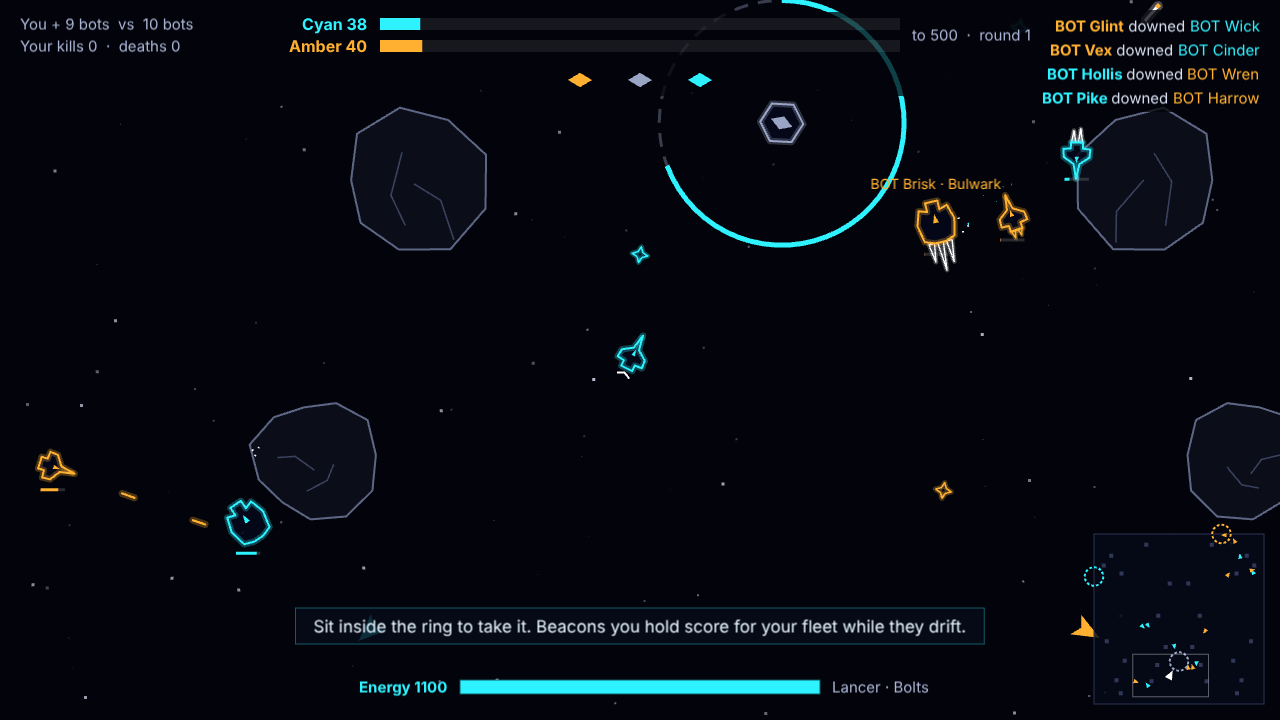
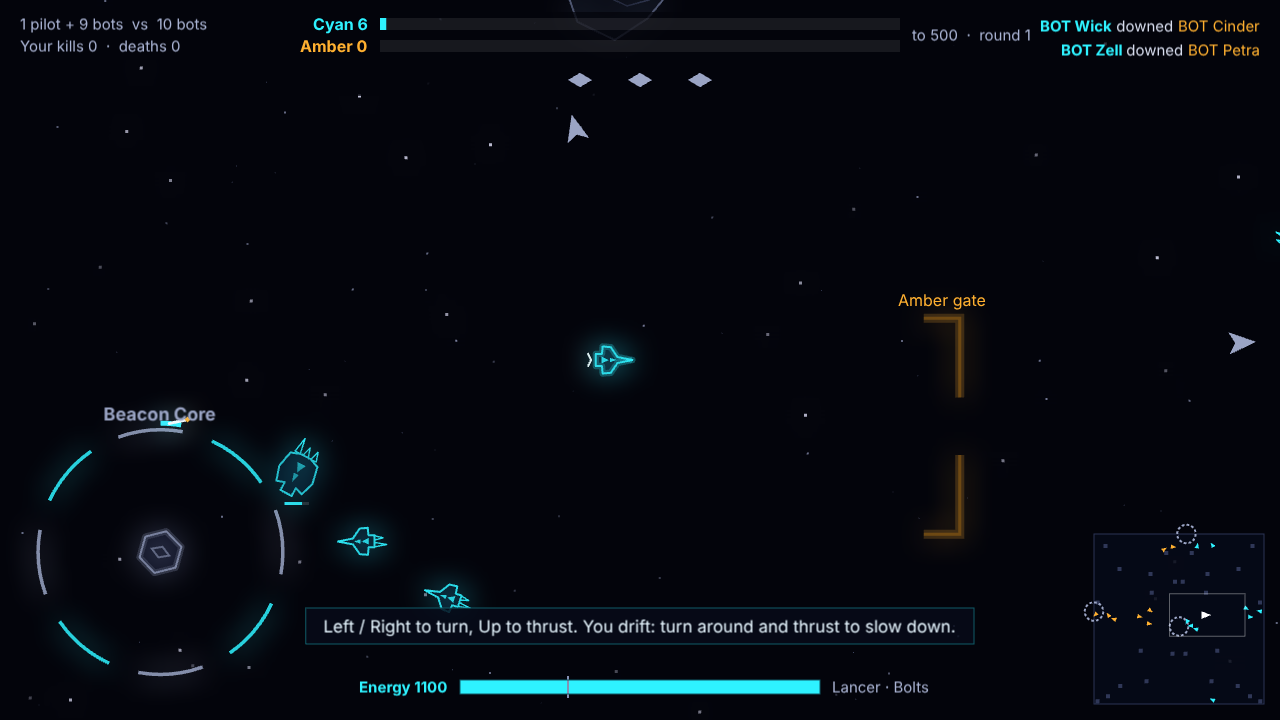
feat: art bible visuals in the game
Team pips, segmented beacons with team glyphs and wash, one bloom pass,
low-energy warnings (dashed hull, hatched bar, tick, glyph, beep) and a
Reduce flashing setting. Scripted test steps now draw once per batch.
Ref: design/art/art-bible.md, production/decision-log.md #12-16

Claude-Session: https://claude.ai/code/session_016dZc32NmVJ1ih6XbMumnJq

diff --git a/src/main.ts b/src/main.ts
@@ -2,7 +2,7 @@
 // (pure, deterministic, server-ready); the look is in render/art.ts; what the checks drive is
 // in hook.ts. Implements design/game-brief.md.
 
-import { Application, Container, Graphics, Text, type TextStyleFontWeight } from 'pixi.js';
+import { Application, BlurFilter, Container, Graphics, RenderTexture, Sprite, Text, type TextStyleFontWeight } from 'pixi.js';
 import config from '../data/config.json';
 import { Sound } from './audio';
 import { readPad, type PadState } from './gamepad';
@@ -15,7 +15,7 @@ import { HULL_RADIUS, HULLS, WEAPONS, type GameEvent, type Ship, type ShipInput,
 import { gate, newWorld } from './game/world';
 import { clock, install, manual, params, seedFrom } from './hook';
 import {
-  arrow, blip, dashedRing, diamond, drawAsteroid, drawBeacon, drawMine, drawShip, drawShot,
+  arrow, blip, dashedRing, look, diamond, drawAsteroid, drawBeacon, drawMine, drawShip, drawShot,
   HULL_NAME, HULL_ROLE, INK, ownerColor, ownerCss, TEAM, WEAPON_NAME, WEAPON_ROLE,
 } from './render/art';
 
@@ -108,7 +108,7 @@ function react(events: GameEvent[]): void {
     log.push(e);
     switch (e.type) {
       case 'shot': { const s = world.ships[e.ship]; if (e.ship === ME || near(s.x, s.y, 700)) (e.kind === 'bolt' ? sound.shoot() : sound.heavy()); break; }
-      case 'hit': if (e.ship === ME) { view.shake = Math.min(10, view.shake + e.amount / 40); sound.hit(); } break;
+      case 'hit': if (e.ship === ME) { if (!settings.calm) view.shake = Math.min(10, view.shake + e.amount / 40); sound.hit(); } break;
       case 'burst':
         for (let i = 0; i < e.n; i++) { // sparks are only for the eye, so they use Math.random
           const a = Math.random() * Math.PI * 2, s = e.speed * (0.3 + Math.random() * 0.7);
@@ -137,6 +137,7 @@ function react(events: GameEvent[]): void {
   }
 }
 
+let wasLow = false;
 function updatePlay(dt: number): void {
   const input = myInput();
   if (input.left || input.right) view.turned = true;
@@ -153,6 +154,9 @@ function updatePlay(dt: number): void {
   }
   // first-minute hints, taught by doing
   const p = me();
+  const isLow = p.alive && p.energy < tune[`${p.hull}_energy`] * tune.low_energy_warn;
+  if (isLow && !wasLow) sound.warn();
+  wasLow = isLow;
   view.hintT += dt;
   if (view.hint === 0 && view.thrustTime > 1.2 && view.turned) { view.hint = 1; view.hintT = 0; }
   if (view.hint === 1 && (world.beacons.some(b => dist(p, b, world.size) < 450) || view.hintT > 25)) { view.hint = 2; view.hintT = 0; }
@@ -184,10 +188,10 @@ function menuKeys(): { up: boolean; down: boolean; left: boolean; right: boolean
     ok: pressed('Enter') || pressed('Space') || edge('a') || edge('start'), back: pressed('Escape') || pressed('Backspace') || edge('b'),
   };
 }
-const SETTINGS_ROWS = ['Volume', 'Camera zoom', 'Bot skill', 'Fleet size (offline)', 'Call sign (online)', 'Zone address (online)', 'Back'] as const;
+const SETTINGS_ROWS = ['Volume', 'Camera zoom', 'Bot skill', 'Fleet size (offline)', 'Call sign (online)', 'Zone address (online)', 'Reduce flashing', 'Back'] as const;
 function settingText(i: number): string {
   const s = settings;
-  return [`${Math.round(s.volume * 100)}%`, `${s.zoom.toFixed(2)}x`, SKILL_NAMES[s.skill], `${s.fleet} a side`, s.name, s.server, ''][i];
+  return [`${Math.round(s.volume * 100)}%`, `${s.zoom.toFixed(2)}x`, SKILL_NAMES[s.skill], `${s.fleet} a side`, s.name, s.server, s.calm ? 'On' : 'Off', ''][i];
 }
 function changeSetting(i: number, d: number): void {
   const s = settings, c = config;
@@ -196,6 +200,7 @@ function changeSetting(i: number, d: number): void {
   if (i === 1) s.zoom = step2(s.zoom, c.zoom);
   if (i === 2) s.skill = Math.min(2, Math.max(0, s.skill + d)) as Settings['skill'];
   if (i === 3) s.fleet = step2(s.fleet, { ...c.fleet_size, min: 2, max: 20 });
+  if (i === 6) s.calm = !s.calm;
   save(s);
 }
 function editText(field: 'name' | 'server', max: number): void {
@@ -233,7 +238,8 @@ const scenes: Record<string, { update(dt: number): void }> = {
       if (k.down) setAt = (setAt + 1) % SETTINGS_ROWS.length;
       if (k.left) changeSetting(setAt, -1);
       if (k.right) changeSetting(setAt, 1);
-      if (k.ok && setAt === 4) editText('name', 16);
+      if (k.ok && setAt === 6) changeSetting(6, 1);
+      else if (k.ok && setAt === 4) editText('name', 16);
       else if (k.ok && setAt === 5) editText('server', 80);
       else if (k.back || (k.ok && setAt === SETTINGS_ROWS.length - 1)) scene = 'title';
     },
@@ -307,7 +313,13 @@ async function start(): Promise<void> {
   const app = new Application();
   await app.init({ canvas, width: W, height: H, background: '#03040b', resolution: Math.min(2, devicePixelRatio || 1), autoDensity: false, antialias: true, autoStart: false });
   const g = new Graphics(), hud = new Graphics(), top = new Graphics(), textLayer = new Container(), topText = new Container();
-  app.stage.addChild(g, hud, textLayer, top, topText);
+  // One bloom pass (art bible §8): the zone is drawn once into a texture, shown sharp, and shown
+  // again blurred at half resolution and added on top, so every lit line glows at one cost.
+  const lit = RenderTexture.create({ width: W, height: H, resolution: app.renderer.resolution, antialias: true });
+  const sharp = new Sprite(lit), bloom = new Sprite(lit);
+  bloom.filters = [new BlurFilter({ strength: 10, quality: 3, resolution: 0.5 })];
+  bloom.blendMode = 'add';
+  app.stage.addChild(sharp, bloom, hud, textLayer, top, topText);
   const L = new Labels(textLayer), T = new Labels(topText);
 
   const z = (): number => tune.zoom;
@@ -342,7 +354,7 @@ async function start(): Promise<void> {
     }
     for (const b of world.beacons) {
       const [X, Y] = toScreen(b.x, b.y);
-      if (!on(X, Y, 250)) continue;
+      if (!on(X, Y, tune.beacon_radius * s * 2.3)) continue;
       drawBeacon(g, b, X, Y, tune.beacon_radius * s, s, t);
       L.put(b.label, X, Y - tune.beacon_radius * s - 16, 18, ownerCss(b.owner), 'center', true);
     }
@@ -361,8 +373,8 @@ async function start(): Promise<void> {
       const [X, Y] = toScreen(sh.x, sh.y);
       if (!on(X, Y, 60)) continue;
       const r = HULL_RADIUS[sh.hull] * s * 1.25;
-      drawShip(g, sh.hull, sh.team, X, Y, sh.a, r, { thrust: sh.thrusting, burn: sh.burning, t, you: sh.id === ME, flash: sh.flash > 0 });
       const maxE = tune[`${sh.hull}_energy`];
+      drawShip(g, sh.hull, sh.team, X, Y, sh.a, r, { thrust: sh.thrusting, burn: sh.burning, t, you: sh.id === ME, flash: sh.flash > 0, low: sh.energy < maxE * tune.low_energy_warn });
       if (sh.id !== ME && sh.energy < maxE * 0.98) {
         const w = 34 * s;
         g.rect(X - w / 2, Y + r * 1.6, w, 3).fill({ color: 0xffffff, alpha: 0.15 });
@@ -407,12 +419,25 @@ async function start(): Promise<void> {
       L.put(f.a, x - wb - wm, y, 15, TEAM[f.at].css, 'right', true, al);
     });
     const ew = 360, ex = W / 2 - ew / 2, ey = H - 40; // energy: your shield and your ammo
-    const maxE = tune[`${p.hull}_energy`], ef = p.alive ? Math.max(0, p.energy / maxE) : 0, low = ef < 0.3;
+    const maxE = tune[`${p.hull}_energy`], ef = p.alive ? Math.max(0, p.energy / maxE) : 0, low = p.alive && ef < tune.low_energy_warn;
     hud.rect(ex, ey, ew, 14).fill({ color: 0xffffff, alpha: 0.08 });
-    hud.rect(ex, ey, ew * ef, 14).fill(low ? 0xff5a6a : TEAM[p.team].main);
+    if (low) { // low energy is never colour alone: a hatched fill, a threshold tick and a warning glyph
+      hud.rect(ex, ey, ew * ef, 14).fill({ color: 0xff5a6a, alpha: 0.35 });
+      for (let hx = ex - 14; hx < ex + ew * ef; hx += 7) {
+        const x0 = Math.max(ex, hx), x1 = Math.min(ex + ew * ef, hx + 14);
+        if (x1 > x0) hud.moveTo(x0, ey + 14 - (x0 - hx)).lineTo(x1, ey + 14 - (x1 - hx));
+      }
+      hud.stroke({ width: 2, color: 0xff5a6a });
+      const gx = ex + ew + 14, gy = ey - 4; // warning glyph: a triangle with a bar and a dot
+      hud.poly([gx, gy + 20, gx + 11, gy, gx + 22, gy + 20], true).stroke({ width: 2, color: 0xff5a6a, join: 'miter' });
+      hud.moveTo(gx + 11, gy + 7).lineTo(gx + 11, gy + 13).stroke({ width: 2, color: 0xff5a6a });
+      hud.rect(gx + 10, gy + 15, 2, 2).fill(0xff5a6a);
+    } else hud.rect(ex, ey, ew * ef, 14).fill(TEAM[p.team].main);
+    const tx = ex + ew * tune.low_energy_warn; // the threshold tick
+    hud.moveTo(tx, ey - 4).lineTo(tx, ey + 18).stroke({ width: 2, color: low ? 0xff5a6a : 0x8590b4 });
     hud.rect(ex, ey, ew, 14).stroke({ width: 1, color: TEAM[p.team].dim });
     L.put(`Energy ${Math.max(0, Math.round(p.energy))}`, ex - 12, ey + 7, 15, low ? '#ff5a6a' : TEAM[p.team].css, 'right', true);
-    L.put(`${HULL_NAME[p.hull]} · ${WEAPON_NAME[p.weapon]}`, ex + ew + 12, ey + 7, 15, '#aab4d4', 'left');
+    L.put(`${HULL_NAME[p.hull]} · ${WEAPON_NAME[p.weapon]}`, ex + ew + (low ? 46 : 12), ey + 7, 15, '#aab4d4', 'left');
     // the minimap: the whole zone
     const size = 170, mx = W - size - 16, my = H - size - 16, k = size / world.size;
     hud.rect(mx, my, size, size).fill({ color: 0x060a18, alpha: 0.82 }).stroke({ width: 1, color: 0x2a3354 });
@@ -505,10 +530,15 @@ async function start(): Promise<void> {
     });
     drawShip(g, 'lancer', 0, 760, 150, -Math.PI / 2, HULL_RADIUS.lancer * 2.2, { you: true, t });
     L.put('You (white chevron)', 760, 216, 15, '#ffffff');
-    drawBeacon(g, { owner: 0, progress: 1, phase: 0 }, 1050, 210, tune.beacon_radius * 0.55, 0.55, t);
-    L.put('Beacon (held)', 1050, 104, 15, TEAM[0].css, 'center', true);
-    drawBeacon(g, { owner: -1, progress: 0, phase: 1 }, 1050, 480, tune.beacon_radius * 0.55, 0.55, t);
-    L.put('Beacon (neutral)', 1050, 374, 15, '#9aa4c4', 'center', true);
+    drawShip(g, 'dart', 1, 760, 320, -Math.PI / 2, HULL_RADIUS.dart * 2.2, { t, low: true });
+    L.put('Low energy (dashed)', 760, 380, 15, TEAM[1].css);
+    const bs = 0.4, bR = tune.beacon_radius * bs;
+    drawBeacon(g, { owner: 0, progress: 1, phase: 0 }, 960, 180, bR, bs, t);
+    L.put('Beacon (held)', 960, 180 - bR - 22, 15, TEAM[0].css, 'center', true);
+    drawBeacon(g, { owner: 1, progress: -0.45, phase: 2 }, 1160, 180, bR, bs, t);
+    L.put('Beacon (being taken)', 1160, 180 - bR - 22, 15, TEAM[1].css, 'center', true);
+    drawBeacon(g, { owner: -1, progress: 0, phase: 1 }, 1060, 470, bR, bs, t);
+    L.put('Beacon (neutral)', 1060, 470 - bR - 22, 15, '#9aa4c4', 'center', true);
     const shape: [number, number][] = []; let s2 = 3;
     for (let i = 0; i < 11; i++) { s2 = (s2 * 16807) % 2147483647; shape.push([(i / 11) * Math.PI * 2, 0.8 + (s2 / 2147483647) * 0.3]); }
     drawAsteroid(g, { x: 0, y: 0, r: 60, shape, cracks: [[-0.2, -0.1, 0.18], [0.25, 0.2, 0.14]], spin: 0 }, 160, 490, 1);
@@ -525,7 +555,7 @@ async function start(): Promise<void> {
     drawStars(simT * 20, 0);
     L.put('Settings', W / 2, 90, 48, '#ffffff', 'center', true);
     SETTINGS_ROWS.forEach((r, i) => {
-      const y = 190 + i * 58, sel = i === setAt;
+      const y = 170 + i * 54, sel = i === setAt;
       if (sel) hud.rect(W / 2 - 380, y - 24, 760, 48).fill({ color: TEAM[0].main, alpha: 0.12 }).stroke({ width: 1, color: TEAM[0].main });
       L.put(r, W / 2 - 350, y, 22, sel ? '#ffffff' : '#aab4d4', 'left', sel);
       const v = settingText(i) + (typing && sel ? '_' : '');
@@ -581,6 +611,7 @@ async function start(): Promise<void> {
   }
 
   function draw(): void {
+    look.calm = settings.calm; bloom.alpha = settings.calm ? 0.45 : 0.9;
     g.clear(); hud.clear(); top.clear(); L.begin(); T.begin();
     if (scene === 'title') drawTitle();
     else if (scene === 'settings') drawSettings();
@@ -598,6 +629,7 @@ async function start(): Promise<void> {
       if (net && scene === 'play') L.put(`online  ·  ${net.ping} ms`, 20, 72, 14, '#8590b4', 'left');
     }
     L.end(); T.end();
+    app.renderer.render({ container: g, target: lit, clear: true });
   }
   function fit(): void {
     const k = Math.min(innerWidth / W, innerHeight / H);
@@ -606,17 +638,15 @@ async function start(): Promise<void> {
   }
 
   // ---- Loop: PixiJS's ticker, fixed step, frame time clamped --------------------------------
-  let acc = 0, lastFrame = clock.now(), stepping = false;
+  let acc = 0, lastFrame = clock.now();
   app.ticker.add(t => {
     lastFrame = clock.now();
-    if (manual) { if (stepping) step(); }
-    else {
+    if (!manual) {
       acc += Math.min(t.deltaMS / 1000, 0.25); // a stall never fast-forwards the game
       while (acc >= STEP) { step(); acc -= STEP; }
     }
     draw();
   });
-  let tickerTime = 0;
   install({
     get scene() { return scene; },
     get state() { return world; },
@@ -624,9 +654,10 @@ async function start(): Promise<void> {
     hold(code, on2) { if (on2) down.add(code); else down.delete(code); },
     get events() { return log; },
     step(n = 1) {
-      stepping = true;
-      try { for (let i = 0; i < n; i++) { tickerTime += STEP * 1000; app.ticker.update(tickerTime); } }
-      finally { stepping = false; }
+      // the steps run back to back and the screen is drawn once at the end: the bloom pass is the
+      // slow part of a frame on a software renderer, and a check only looks at the last one
+      for (let i = 0; i < n; i++) step();
+      draw(); app.render();
     },
   });
   addEventListener('resize', fit); fit();

diff --git a/src/render/art.ts b/src/render/art.ts
@@ -32,13 +32,38 @@ export function pts(shape: readonly [number, number][], x: number, y: number, a:
   for (const [px, py] of shape) out.push(x + (px * c - py * sn) * s, y + (px * sn + py * c) * s);
   return out;
 }
-/** A neon line: a wide soft pass, then the bright core. `path` draws the shape again for each pass. */
-export function glow(g: Graphics, path: () => void, color: number, width: number): void {
-  path(); g.stroke({ width: width * 3.2, color, alpha: 0.28, join: 'round', cap: 'round' });
+/** Look switches the page sets: `calm` is the Reduce flashing setting (no white flashes or blinking). */
+export const look = { calm: false };
+
+/** Team glyphs, the shape backup for cyan and amber (art bible §3, §4): cyan a triangle, amber a diamond. */
+export const TEAM_GLYPH: readonly (readonly [number, number][])[] = [
+  [[1, 0], [-0.75, 0.85], [-0.75, -0.85]],
+  [[1, 0], [0, 0.8], [-1, 0], [0, -0.8]],
+];
+
+/**
+ * A neon line: the bright core, plus a wide soft halo when `halo` is set. The screen-wide bloom pass
+ * lights every line, so only beacons and your own ship ask for their own halo (art bible §8).
+ */
+export function glow(g: Graphics, path: () => void, color: number, width: number, halo = false): void {
+  if (halo) { path(); g.stroke({ width: width * 3.2, color, alpha: 0.28, join: 'round', cap: 'round' }); }
   path(); g.stroke({ width, color, join: 'round', cap: 'round' });
 }
 
-export interface ShipLook { thrust?: boolean; burn?: boolean; t?: number; you?: boolean; flash?: boolean; alpha?: number }
+/** A closed outline drawn as dashes: what a hull looks like when its energy runs low. */
+export function dashedPoly(g: Graphics, p: number[], dash: number, gap: number, color: number, width: number, alpha = 1): void {
+  for (let i = 0; i < p.length; i += 2) {
+    const x0 = p[i], y0 = p[i + 1], x1 = p[(i + 2) % p.length], y1 = p[(i + 3) % p.length];
+    const len = Math.hypot(x1 - x0, y1 - y0), ux = (x1 - x0) / (len || 1), uy = (y1 - y0) / (len || 1);
+    for (let d = 0; d < len; d += dash + gap) {
+      const e = Math.min(len, d + dash);
+      g.moveTo(x0 + ux * d, y0 + uy * d).lineTo(x0 + ux * e, y0 + uy * e);
+    }
+  }
+  g.stroke({ width, color, alpha, cap: 'round' });
+}
+
+export interface ShipLook { thrust?: boolean; burn?: boolean; t?: number; you?: boolean; flash?: boolean; alpha?: number; low?: boolean }
 
 export function drawShip(g: Graphics, hull: Hull, team: Team, x: number, y: number, a: number, s: number, o: ShipLook = {}): void {
   const col = TEAM[team].main, t = o.t ?? 0;
@@ -51,8 +76,13 @@ export function drawShip(g: Graphics, hull: Hull, team: Team, x: number, y: numb
   }
   const body = pts(SHAPES[hull], x, y, a, s);
   g.poly(body, true).fill({ color: INK, alpha: 0.85 });
-  glow(g, () => g.poly(body, true), o.flash ? 0xffffff : col, 2);
-  g.poly(pts([[0.55, 0], [0.05, 0.16], [0.05, -0.16]], x, y, a, s), true).fill(col); // cockpit stripe: the nose reads at a glance
+  const edge = o.flash && !look.calm ? 0xffffff : col;
+  if (o.low) { // low energy: the hull line breaks into dashes and flickers (a backup for the red HUD bar)
+    const on = look.calm || Math.sin(t * 28) > -0.3;
+    dashedPoly(g, body, 5, 4, edge, 2, on ? 1 : 0.35);
+  } else glow(g, () => g.poly(body, true), edge, 2, o.you);
+  g.poly(pts([[0.6, 0], [0.15, 0]], x, y, a, s), false).stroke({ width: 2, color: col, cap: 'round' }); // nose stripe: the heading reads at a glance
+  g.poly(pts(TEAM_GLYPH[team], x, y, a, s * 0.3).map((v, i) => v + (i % 2 ? -Math.sin(a) : -Math.cos(a)) * s * 0.35), true).fill(col); // team pip
   if (o.you) { // your ship wears a white chevron behind it
     g.poly(pts([[-1.6, 0.5], [-1.35, 0], [-1.6, -0.5]], x, y, a, s), false).stroke({ width: 2, color: 0xffffff });
   }
@@ -80,25 +110,61 @@ export function dashedRing(g: Graphics, x: number, y: number, R: number, color: 
   }
 }
 
+/**
+ * A beacon (art bible §3, §4): a segmented ring of 8 arcs round a core glyph, with a flat wash of
+ * team colour on the void around it. Neutral: thin grey arcs and a hollow core. Held: the owner's
+ * arcs, wash and glyph. Being taken from its owner: the arcs alternate colours and the wash splits.
+ */
 export function drawBeacon(g: Graphics, b: Pick<Beacon, 'owner' | 'progress' | 'phase'>, x: number, y: number, R: number, scale: number, t: number): void {
   const col = ownerColor(b.owner);
-  const pulse = 0.5 + 0.5 * Math.sin(t * 2.2 + b.phase);
-  dashedRing(g, x, y, R, col, b.owner < 0 ? 0.35 : 0.45, 3);
-  if (b.progress !== 0) { // the ring fills with the colour of whoever is taking it
-    const team = b.progress > 0 ? 0 : 1, a0 = -Math.PI / 2;
-    g.moveTo(x + Math.cos(a0) * R, y + Math.sin(a0) * R).arc(x, y, R, a0, a0 + Math.PI * 2 * Math.abs(b.progress))
-      .stroke({ width: 5, color: TEAM[team].main });
+  // a held beacon sits at full progress for its owner; anything less means the other fleet is draining it
+  const draining = b.owner !== -1 && Math.abs(b.progress) < 0.999;
+  const taker: -1 | Team = draining ? (1 - b.owner) as Team : b.progress > 0 ? 0 : b.progress < 0 ? 1 : -1;
+  const contested = taker !== -1 && taker !== b.owner;
+  // one slow rhythm nothing else shares: a long pulse, then a long gap
+  const pulse = Math.pow(Math.max(0, Math.sin(t * 1.1 + b.phase)), 6);
+  // the wash: the only coloured ground light in the game, a flat radial fall-off
+  const wash = (color: number, a0: number, a1: number, k: number) => {
+    for (let i = 0; i < 9; i++) {
+      const r = R * (2.2 - i * 0.2);
+      if (a1 - a0 >= Math.PI * 2) g.circle(x, y, r); else g.moveTo(x, y).arc(x, y, r, a0, a1).closePath();
+      g.fill({ color, alpha: 0.022 * k });
+    }
+  };
+  if (contested && b.owner !== -1) {
+    const seam = Math.PI / 2 + Math.sin(t * 2.3 + b.phase) * 0.35;
+    wash(col, seam, seam + Math.PI, 1);
+    wash(TEAM[taker as Team].main, seam + Math.PI, seam + Math.PI * 2, Math.abs(b.progress) + 0.3);
+  } else if (b.owner !== -1) wash(col, 0, Math.PI * 2, 1 + pulse * 0.6);
+  else if (taker !== -1) wash(TEAM[taker].main, 0, Math.PI * 2, Math.abs(b.progress));
+  // the ring: 8 arcs turning slowly
+  const spin = t * 0.15 + b.phase, seg = (Math.PI * 2) / 8;
+  for (let i = 0; i < 8; i++) {
+    const a0 = spin + i * seg, a1 = a0 + seg * 0.68;
+    const c = contested && i % 2 ? TEAM[taker as Team].main : col;
+    g.moveTo(x + Math.cos(a0) * R, y + Math.sin(a0) * R).arc(x, y, R, a0, a1)
+      .stroke({ width: b.owner === -1 && !contested ? 2 : 3.5, color: c, alpha: b.owner === -1 && !contested ? 0.45 : 0.85, cap: 'butt' });
+  }
+  if (b.progress !== 0 && Math.abs(b.progress) < 0.999) { // the capture fill, just outside the ring: who is ahead, and how far
+    const a0 = -Math.PI / 2, Rf = R + 9 * scale;
+    g.moveTo(x + Math.cos(a0) * Rf, y + Math.sin(a0) * Rf).arc(x, y, Rf, a0, a0 + Math.PI * 2 * Math.abs(b.progress))
+      .stroke({ width: 5, color: TEAM[b.progress > 0 ? 0 : 1].main });
   }
   const hex = pts(HEX, x, y, t * 0.4 + b.phase, 30 * scale);
   g.poly(hex, true).fill({ color: INK, alpha: 0.9 });
-  glow(g, () => g.poly(hex, true), col, 2);
-  g.poly(pts(DIAMOND, x, y, -t * 1.3, (14 + 5 * pulse) * scale), true).fill(col);
+  glow(g, () => g.poly(hex, true), col, 2, true);
+  if (b.owner === -1) { // neutral: a hollow core
+    g.poly(pts(DIAMOND, x, y, -t * 0.6, 13 * scale), true).stroke({ width: 2, color: col });
+  } else { // held: the owner's glyph, lit on the pulse
+    g.poly(pts(TEAM_GLYPH[b.owner], x, y, -Math.PI / 2, (13 + 5 * pulse) * scale), true).fill(col);
+  }
 }
 
 export function drawMine(g: Graphics, m: Pick<Mine, 'team'>, live: boolean, x: number, y: number, scale: number, t: number): void {
   const p = pts(STAR8, x, y, t * 1.5, 11 * scale);
   g.poly(p, true).fill({ color: INK, alpha: 0.9 });
-  glow(g, () => g.poly(p, true), live && Math.sin(t * 10) > 0 ? 0xffffff : TEAM[m.team].main, 1.6);
+  glow(g, () => g.poly(p, true), live && !look.calm && Math.sin(t * 10) > 0 ? 0xffffff : TEAM[m.team].main, 1.6);
+  if (live && look.calm) g.circle(x, y, 3 * scale).fill(TEAM[m.team].main); // armed, shown without blinking
 }
 
 export function drawShot(g: Graphics, b: Pick<Shot, 'team' | 'kind' | 'vx' | 'vy'>, x: number, y: number, scale: number): void {

diff --git a/src/settings.ts b/src/settings.ts
@@ -10,12 +10,13 @@ export interface Settings {
   fleet: number;        // ships per fleet, you included
   server: string;       // the online zone's address
   name: string;         // your call sign online
+  calm: boolean;        // Reduce flashing: caps flash brightness and bloom, no screen shake
 }
 export const SKILL_NAMES = ['Easy', 'Normal', 'Hard'] as const;
 const KEY = 'beacon-wars-settings';
 
 export function defaults(t: Tuning): Settings {
-  return { volume: t.volume, zoom: t.zoom, skill: 1, fleet: t.fleet_size, server: 'ws://localhost:8787', name: 'Pilot' };
+  return { volume: t.volume, zoom: t.zoom, skill: 1, fleet: t.fleet_size, server: 'ws://localhost:8787', name: 'Pilot', calm: false };
 }
 export function load(t: Tuning): Settings {
   const d = defaults(t);

diff --git a/src/audio.ts b/src/audio.ts
@@ -37,5 +37,7 @@ export class Sound {
   capture(): void { this.tone(523, 0.12, 'triangle', 0.18); this.tone(784, 0.25, 'triangle', 0.18, 0, 0.11); }
   lost(): void { this.tone(330, 0.35, 'triangle', 0.15, 0.6); }
   mine(): void { this.tone(160, 0.12, 'square', 0.1, 1.5); }
+  /** Low energy: two short falling beeps, the sound backup for the red HUD bar. */
+  warn(): void { this.tone(520, 0.07, 'square', 0.07, 0.8); this.tone(390, 0.09, 'square', 0.07, 0.8, 0.1); }
   win(): void { [523, 659, 784, 1046].forEach((f, i) => this.tone(f, 0.3, 'triangle', 0.16, 0, i * 0.12)); }
 }

diff --git a/production/decision-log.md b/production/decision-log.md
@@ -16,5 +16,10 @@ recommended default for every open question. Each one is easy to change; say whi
 | 9 | Steam wrapper: Electron recommended, not built | Same Chromium everywhere; needs his yes | `docs/architecture/adr-0002-steam-desktop-wrapper.md` (Proposed) |
 | 10 | Bot difficulty Easy/Normal/Hard scales aim wobble and reaction time | Simple, readable | `skill_easy`, `skill_hard` |
 | 11 | Name stays "Beacon Wars" as a working title | Concept name; he can rename | `index.html`, `README.md` |
+| 12 | Art bible picks: solo mode (sign-off skipped), no green, team pips (cyan triangle, amber diamond) | Colour-blind backup without changing the palette | `design/art/art-bible.md` |
+| 13 | One half-resolution bloom pass over the zone; own halos only on beacons and your ship | Art bible §8 constrained option; cheaper than a halo on every line | `src/main.ts`, `src/render/art.ts` |
+| 14 | "Reduce flashing" setting, off by default: no white hit flash, no mine blink, no screen shake, half bloom | Art bible §7 conflict pick | `src/settings.ts` |
+| 15 | Low energy below 30% (`low_energy_warn`): dashed flickering hull, hatched red bar, threshold tick, warning glyph and beep | Never colour alone (art bible §4) | `data/config.json` |
+| 16 | Beacons: 8-arc ring, team glyph core, flat team wash; arcs alternate and the wash splits while a held beacon is drained | Art bible §2–§4 beacon states | `src/render/art.ts` |
 
 Not done: hosting for public zones, accounts, Steam integration, music, binary wire format.
